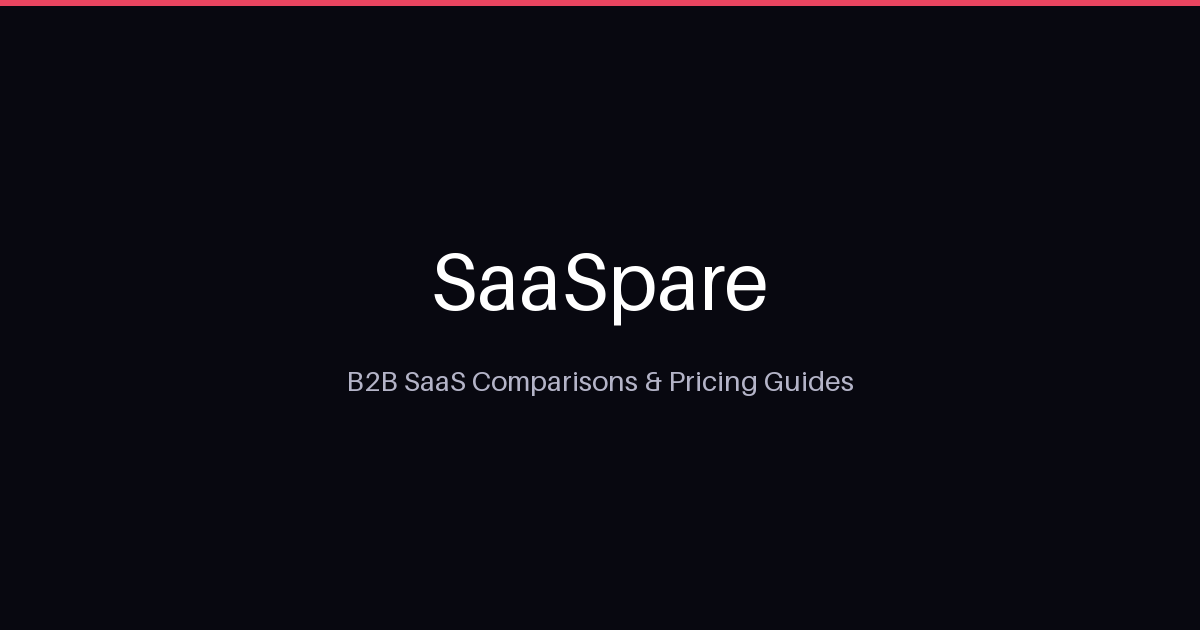
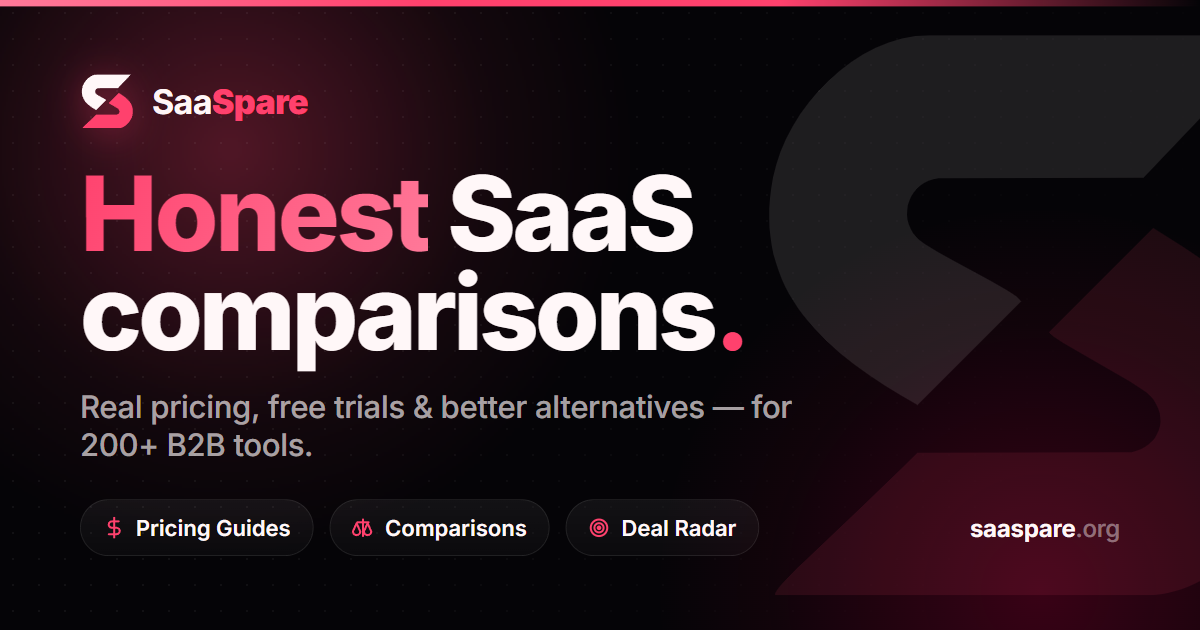
feat: redesign og-default social image to match v2 design system
Rebuilt the 1200x630 social share card with the real S logo, pink-glow
dark canvas, dot grid, 'Honest SaaS comparisons.' headline, glass feature
pills + ghost logo. Old one predated the design upgrade. Source HTML saved
to assets/social/ for reproducibility.

diff --git a/assets/social/og-default-source.html b/assets/social/og-default-source.html
@@ -1,0 +1,110 @@
+<!doctype html>
+<html lang="en">
+<head>
+<meta charset="utf-8">
+<style>
+@import url('https://fonts.googleapis.com/css2?family=Inter:wght@400;500;600;700;800;900&display=swap');
+:root{
+  --bg-deep:#050407; --pink:#ff416d; --pink-soft:#ff557c; --pink-light:#ff7a9a;
+  --ink:#fff7f8; --ink-3:rgba(255,247,248,.64); --ink-4:rgba(255,247,248,.42);
+  --line:rgba(255,255,255,.09);
+}
+*{margin:0;padding:0;box-sizing:border-box}
+html,body{width:1200px;height:630px;overflow:hidden}
+body{
+  font-family:'Inter',system-ui,'Segoe UI',sans-serif;
+  background:var(--bg-deep);
+  color:var(--ink);
+  position:relative;
+}
+/* layered background */
+.bg{position:absolute;inset:0;overflow:hidden}
+.glow1{position:absolute;top:-260px;left:-180px;width:820px;height:820px;border-radius:50%;
+  background:radial-gradient(circle, rgba(255,65,109,.30), rgba(255,65,109,.06) 45%, transparent 70%);filter:blur(8px)}
+.glow2{position:absolute;bottom:-340px;right:-220px;width:760px;height:760px;border-radius:50%;
+  background:radial-gradient(circle, rgba(120,0,40,.45), rgba(120,0,40,.10) 50%, transparent 72%)}
+.dots{position:absolute;inset:0;opacity:.5;
+  background-image:radial-gradient(rgba(255,255,255,.10) 1.1px, transparent 1.2px);
+  background-size:26px 26px;
+  -webkit-mask-image:linear-gradient(120deg,#000 30%,transparent 85%);
+          mask-image:linear-gradient(120deg,#000 30%,transparent 85%)}
+.topbar{position:absolute;top:0;left:0;right:0;height:6px;
+  background:linear-gradient(90deg,var(--pink-light),var(--pink) 35%,var(--pink) 65%,transparent)}
+
+/* decorative giant mark bleeding off right */
+.ghost{position:absolute;right:-110px;top:50%;transform:translateY(-50%);width:560px;height:560px;opacity:.10}
+.ghost svg{width:100%;height:100%}
+
+.wrap{position:absolute;inset:0;padding:74px 80px;display:flex;flex-direction:column}
+
+/* brand row */
+.brand{display:flex;align-items:center;gap:18px}
+.brand .mark{width:54px;height:54px;filter:drop-shadow(0 6px 18px rgba(255,65,109,.45))}
+.brand .name{font-size:34px;font-weight:700;letter-spacing:-.02em}
+.brand .name b{color:var(--pink)}
+
+/* headline */
+.head{margin-top:auto}
+h1{font-size:104px;line-height:.95;font-weight:800;letter-spacing:-.035em;max-width:880px}
+h1 .hl{background:linear-gradient(120deg,var(--pink),var(--pink-light));-webkit-background-clip:text;background-clip:text;color:transparent}
+h1 .dot{color:var(--pink)}
+.sub{margin-top:26px;font-size:31px;font-weight:500;color:var(--ink-3);letter-spacing:-.01em;max-width:760px}
+
+/* feature pills + url */
+.foot{margin-top:auto;display:flex;align-items:center;gap:16px}
+.pill{display:flex;align-items:center;gap:11px;padding:14px 22px;border-radius:9999px;
+  background:linear-gradient(180deg, rgba(255,255,255,.055), rgba(255,255,255,.022));
+  border:1px solid var(--line);font-size:22px;font-weight:600;color:var(--ink)}
+.pill svg{width:22px;height:22px;color:var(--pink)}
+.spacer{flex:1}
+.url{font-size:24px;font-weight:700;color:var(--ink);letter-spacing:-.01em}
+.url span{color:var(--ink-4);font-weight:500}
+</style>
+</head>
+<body>
+<div class="bg">
+  <div class="glow2"></div>
+  <div class="glow1"></div>
+  <div class="dots"></div>
+  <div class="topbar"></div>
+  <div class="ghost">
+    <svg viewBox="0 0 180 180" xmlns="http://www.w3.org/2000/svg">
+      <path fill="#ff416d" d="M8,180 C6.809,178.947 16.249,170.148 17.474,168.974 C29.513,157.429 41.867,146.05 53.705,134.205 L122.523,134.023 C131.393,132.259 134.949,122.943 128.546,115.954 C124.629,111.68 96.06,97.422 96.018,95.501 L129.483,61.989 C156.236,78.393 178.812,94.454 176.036,129.536 C174.239,152.239 151.336,180 127.5,180 L8,180 Z"/>
+      <path fill="#fff7f8" d="M170,0 L126.338,45.838 L60.476,45.976 C51.069,46.978 47.054,58.107 53.446,65.053 C57.608,69.575 86.408,82.481 86.951,85.614 L53.687,118.84 C24.96,102.655 0.111,82.629 7.258,45.758 C11.54,23.666 33.934,0 57.5,0 L170,0 Z"/>
+    </svg>
+  </div>
+</div>
+
+<div class="wrap">
+  <div class="brand">
+    <svg class="mark" viewBox="0 0 180 180" xmlns="http://www.w3.org/2000/svg">
+      <path fill="#ff416d" d="M8,180 C6.809,178.947 16.249,170.148 17.474,168.974 C29.513,157.429 41.867,146.05 53.705,134.205 L122.523,134.023 C131.393,132.259 134.949,122.943 128.546,115.954 C124.629,111.68 96.06,97.422 96.018,95.501 L129.483,61.989 C156.236,78.393 178.812,94.454 176.036,129.536 C174.239,152.239 151.336,180 127.5,180 L8,180 Z"/>
+      <path fill="#fff7f8" d="M170,0 L126.338,45.838 L60.476,45.976 C51.069,46.978 47.054,58.107 53.446,65.053 C57.608,69.575 86.408,82.481 86.951,85.614 L53.687,118.84 C24.96,102.655 0.111,82.629 7.258,45.758 C11.54,23.666 33.934,0 57.5,0 L170,0 Z"/>
+    </svg>
+    <div class="name">Saa<b>Spare</b></div>
+  </div>
+
+  <div class="head">
+    <h1><span class="hl">Honest</span> SaaS<br>comparisons<span class="dot">.</span></h1>
+    <div class="sub">Real pricing, free trials &amp; better alternatives — for 200+ B2B tools.</div>
+  </div>
+
+  <div class="foot">
+    <div class="pill">
+      <svg viewBox="0 0 24 24" fill="none" stroke="currentColor" stroke-width="2.2" stroke-linecap="round" stroke-linejoin="round"><line x1="12" y1="1" x2="12" y2="23"/><path d="M17 5H9.5a3.5 3.5 0 0 0 0 7h5a3.5 3.5 0 0 1 0 7H6"/></svg>
+      Pricing Guides
+    </div>
+    <div class="pill">
+      <svg viewBox="0 0 24 24" fill="none" stroke="currentColor" stroke-width="2.2" stroke-linecap="round" stroke-linejoin="round"><line x1="12" y1="3" x2="12" y2="21"/><path d="M3 7l4 9a4 4 0 0 1-8 0z" transform="translate(2 0)"/><path d="M15 7l4 9a4 4 0 0 1-8 0z" transform="translate(2 0)"/><line x1="6" y1="6" x2="18" y2="6"/></svg>
+      Comparisons
+    </div>
+    <div class="pill">
+      <svg viewBox="0 0 24 24" fill="none" stroke="currentColor" stroke-width="2.2" stroke-linecap="round" stroke-linejoin="round"><circle cx="12" cy="12" r="9"/><circle cx="12" cy="12" r="5"/><circle cx="12" cy="12" r="1.4" fill="currentColor"/></svg>
+      Deal Radar
+    </div>
+    <div class="spacer"></div>
+    <div class="url">saaspare<span>.org</span></div>
+  </div>
+</div>
+</body>
+</html>
